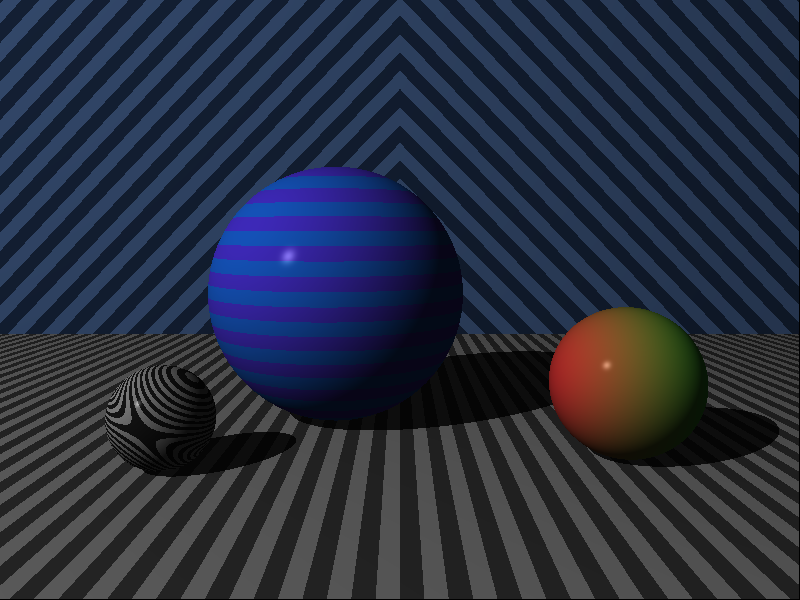
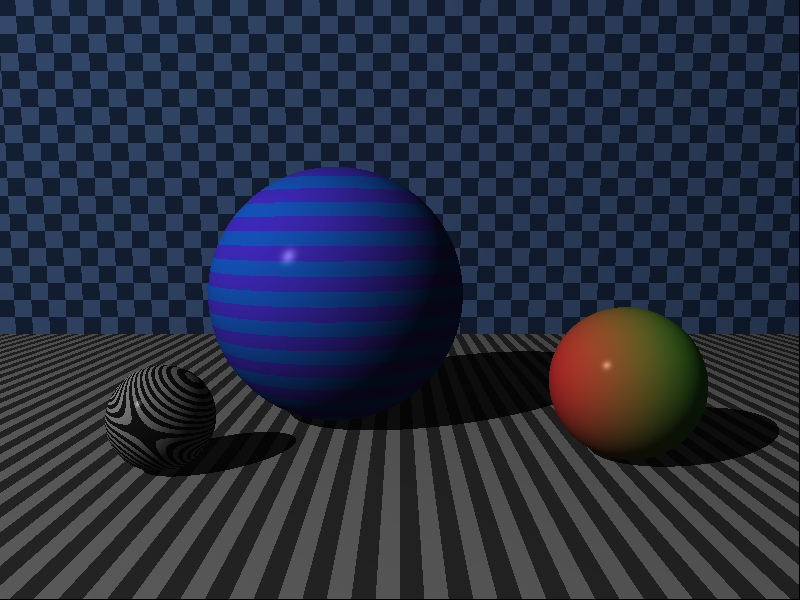
Fixed checkers pattern.

diff --git a/KerrMath.cpp b/KerrMath.cpp
@@ -219,7 +219,7 @@ Color KerrMath::patternAt(const Pattern& pattern, const Matrix& point)
 	else if (pattern.type == "test") { return Color(point(0, 0), point(1, 0), point(2, 0)); }
 	else if (pattern.type == "ring") { return ((int)std::floor(std::sqrt(std::pow(point(0, 0), 2.0) + std::pow(point(2, 0), 2.0))) % 2 == 0) ? pattern.a : pattern.b; }
 	else if (pattern.type == "gradient") { return pattern.a + (pattern.b - pattern.a) * (point(0, 0) - std::floor(point(0, 0))); }
-	else if (pattern.type == "checkers") { return ((int)(std::abs(point(0, 0)) + std::abs(point(1, 0)) + std::abs(point(2, 0))) % 2 == 0) ? pattern.a : pattern.b; }
+	else if (pattern.type == "checkers") { return ((int)(std::floor(point(0, 0)) + std::floor(point(1, 0)) + std::floor(point(2, 0))) % 2 == 0) ? pattern.a : pattern.b; }
 	throw KerrEngineException("EXCEPTION_PATTERN_STRIPEAT_UNSUPPORTED_PATTERN_TYPE");
 }
 

diff --git a/KerrTester.cpp b/KerrTester.cpp
@@ -31,7 +31,7 @@ int main()
 	Plane* wall = new Plane();
 	wall->transform = Matrix::translation(0.0, 0.0, 5.0) * Matrix::rotationX(std::numbers::pi / 2);
 	wall->material.specular = 0.0;
-	wall->material.pattern = Pattern(Color(0.215, 0.305, 0.451), Color(0.082, 0.133, 0.219), "checkers", Matrix::scaling(0.25, 0.25, 0.25));
+	wall->material.pattern = Pattern(Color(0.215, 0.305, 0.451), Color(0.082, 0.133, 0.219), "checkers", Matrix::scaling(0.25, 0.25, 0.25) * Matrix::translation(0.5, 0.0, 0.0));
 
 	Sphere* left = new Sphere();
 	left->transform = Matrix::translation(-1.5, 0.33, -0.75) * Matrix::scaling(0.33, 0.33, 0.33);
